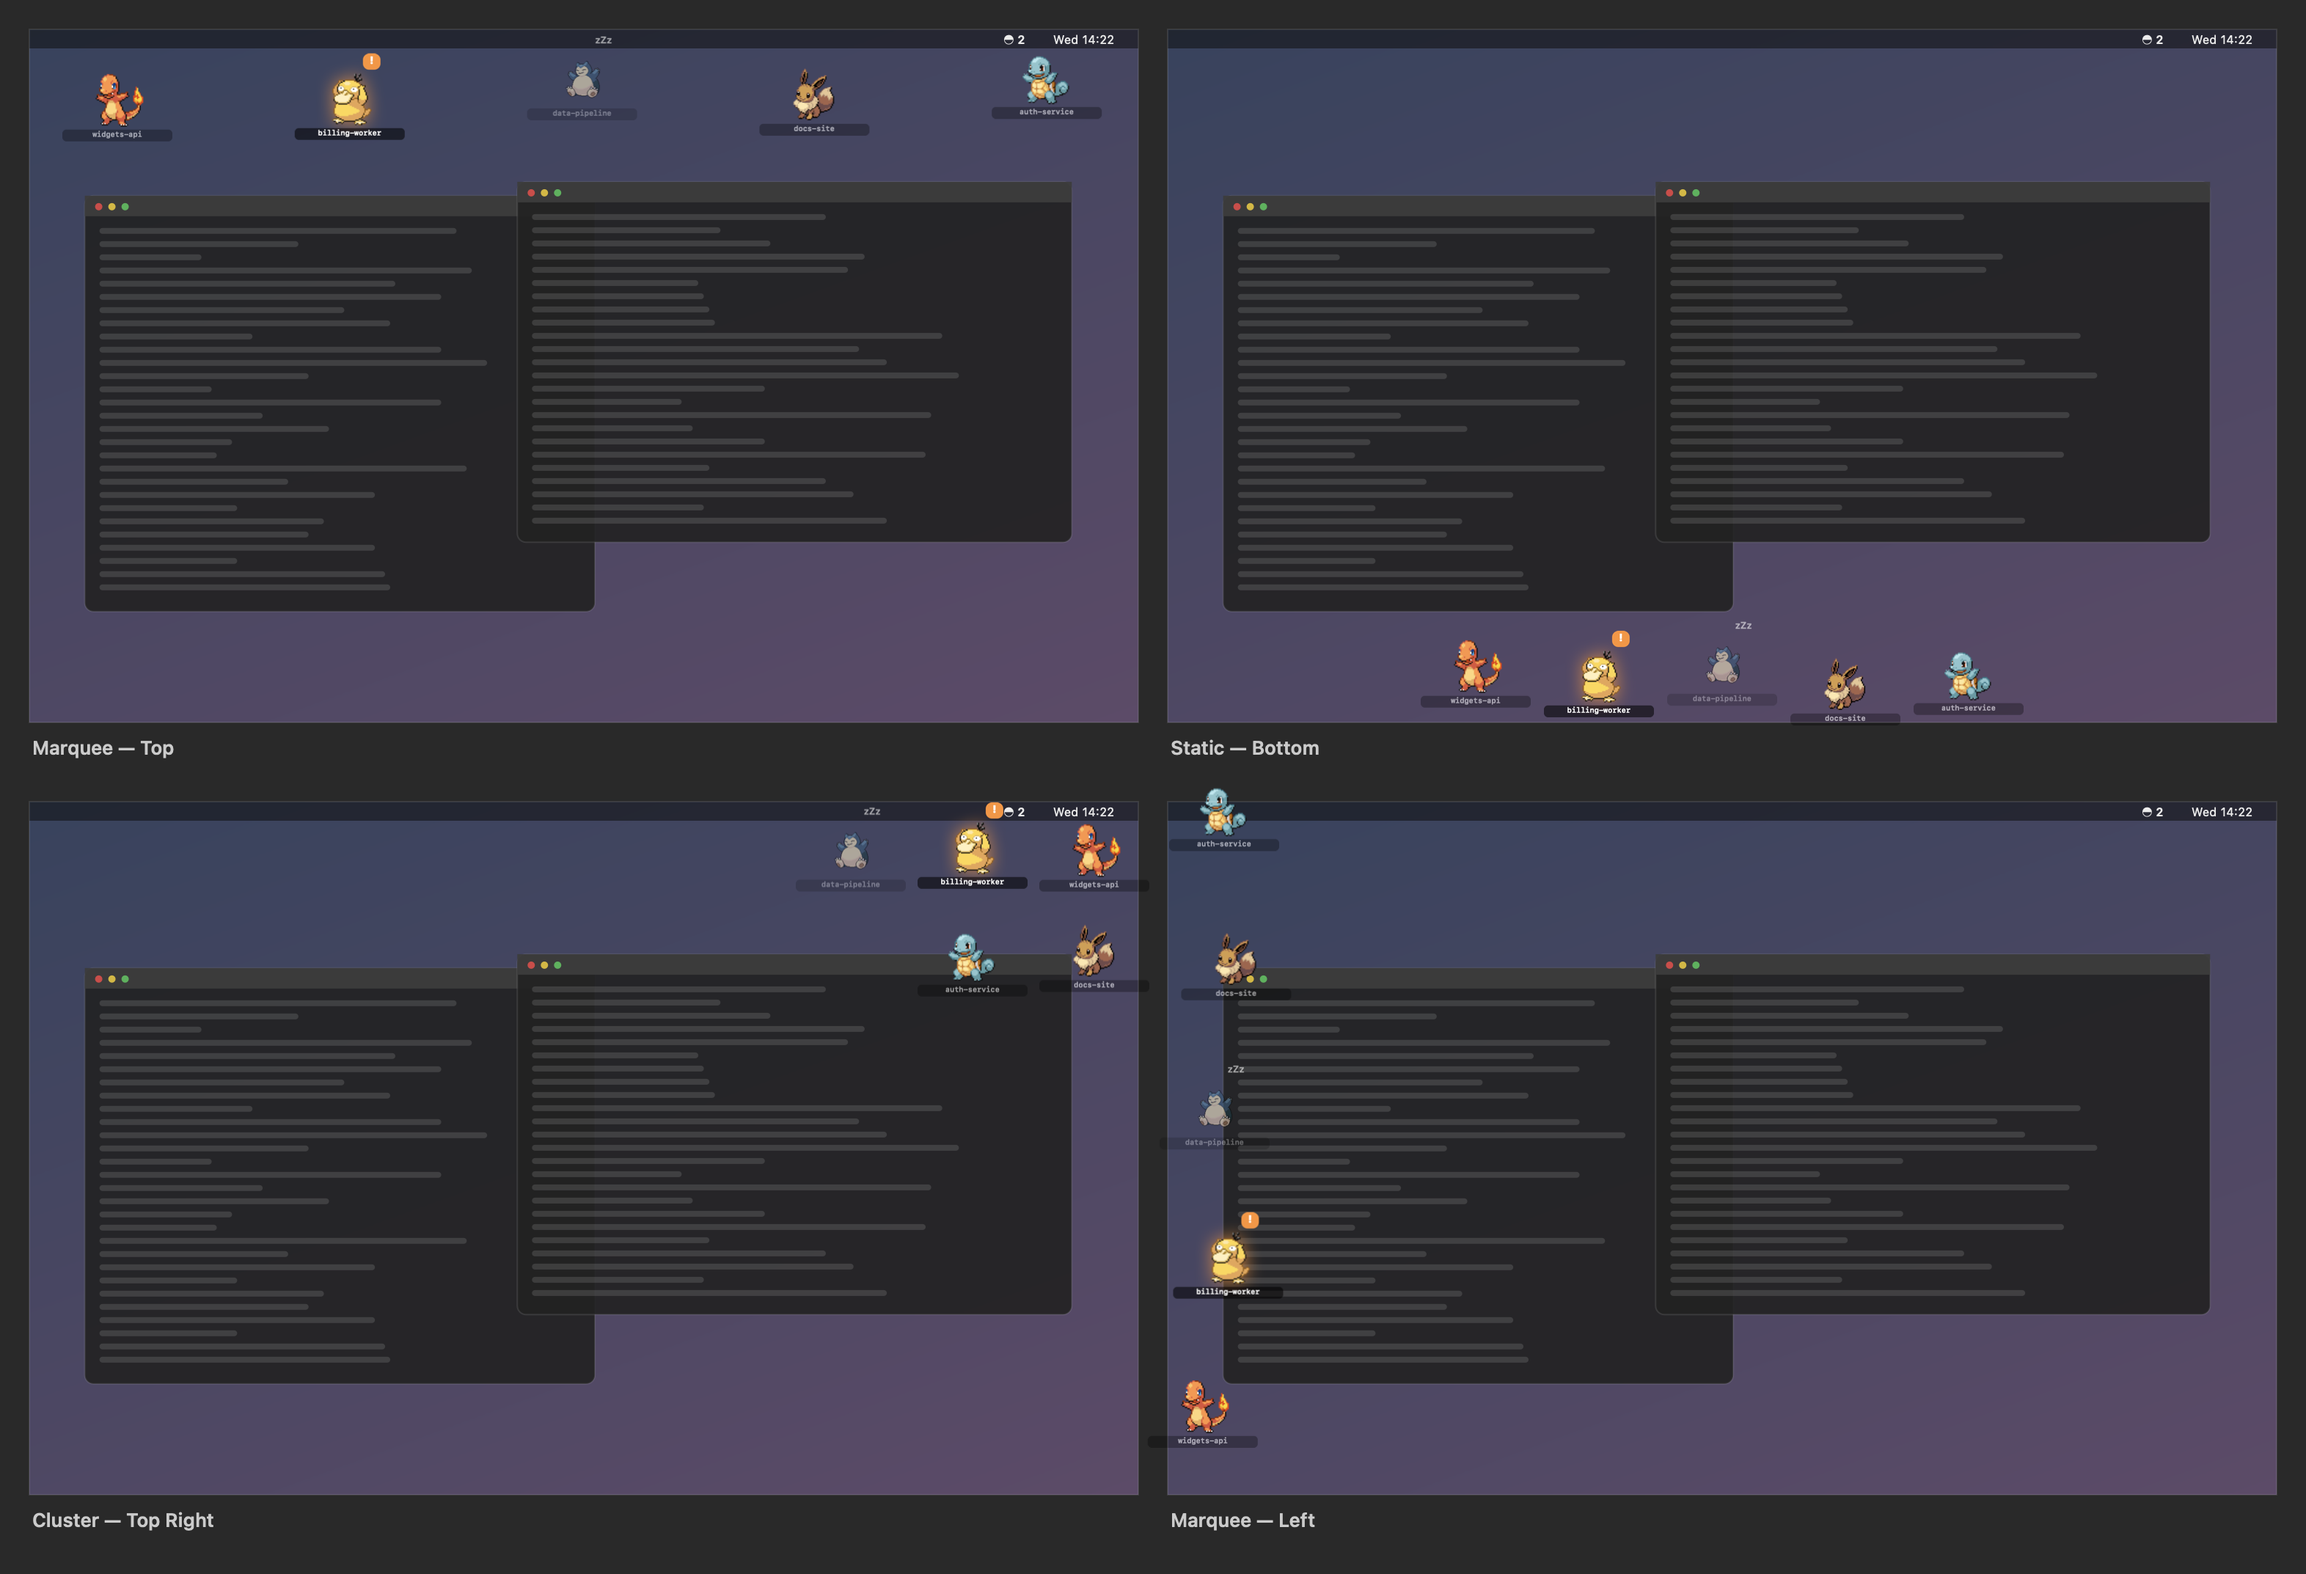
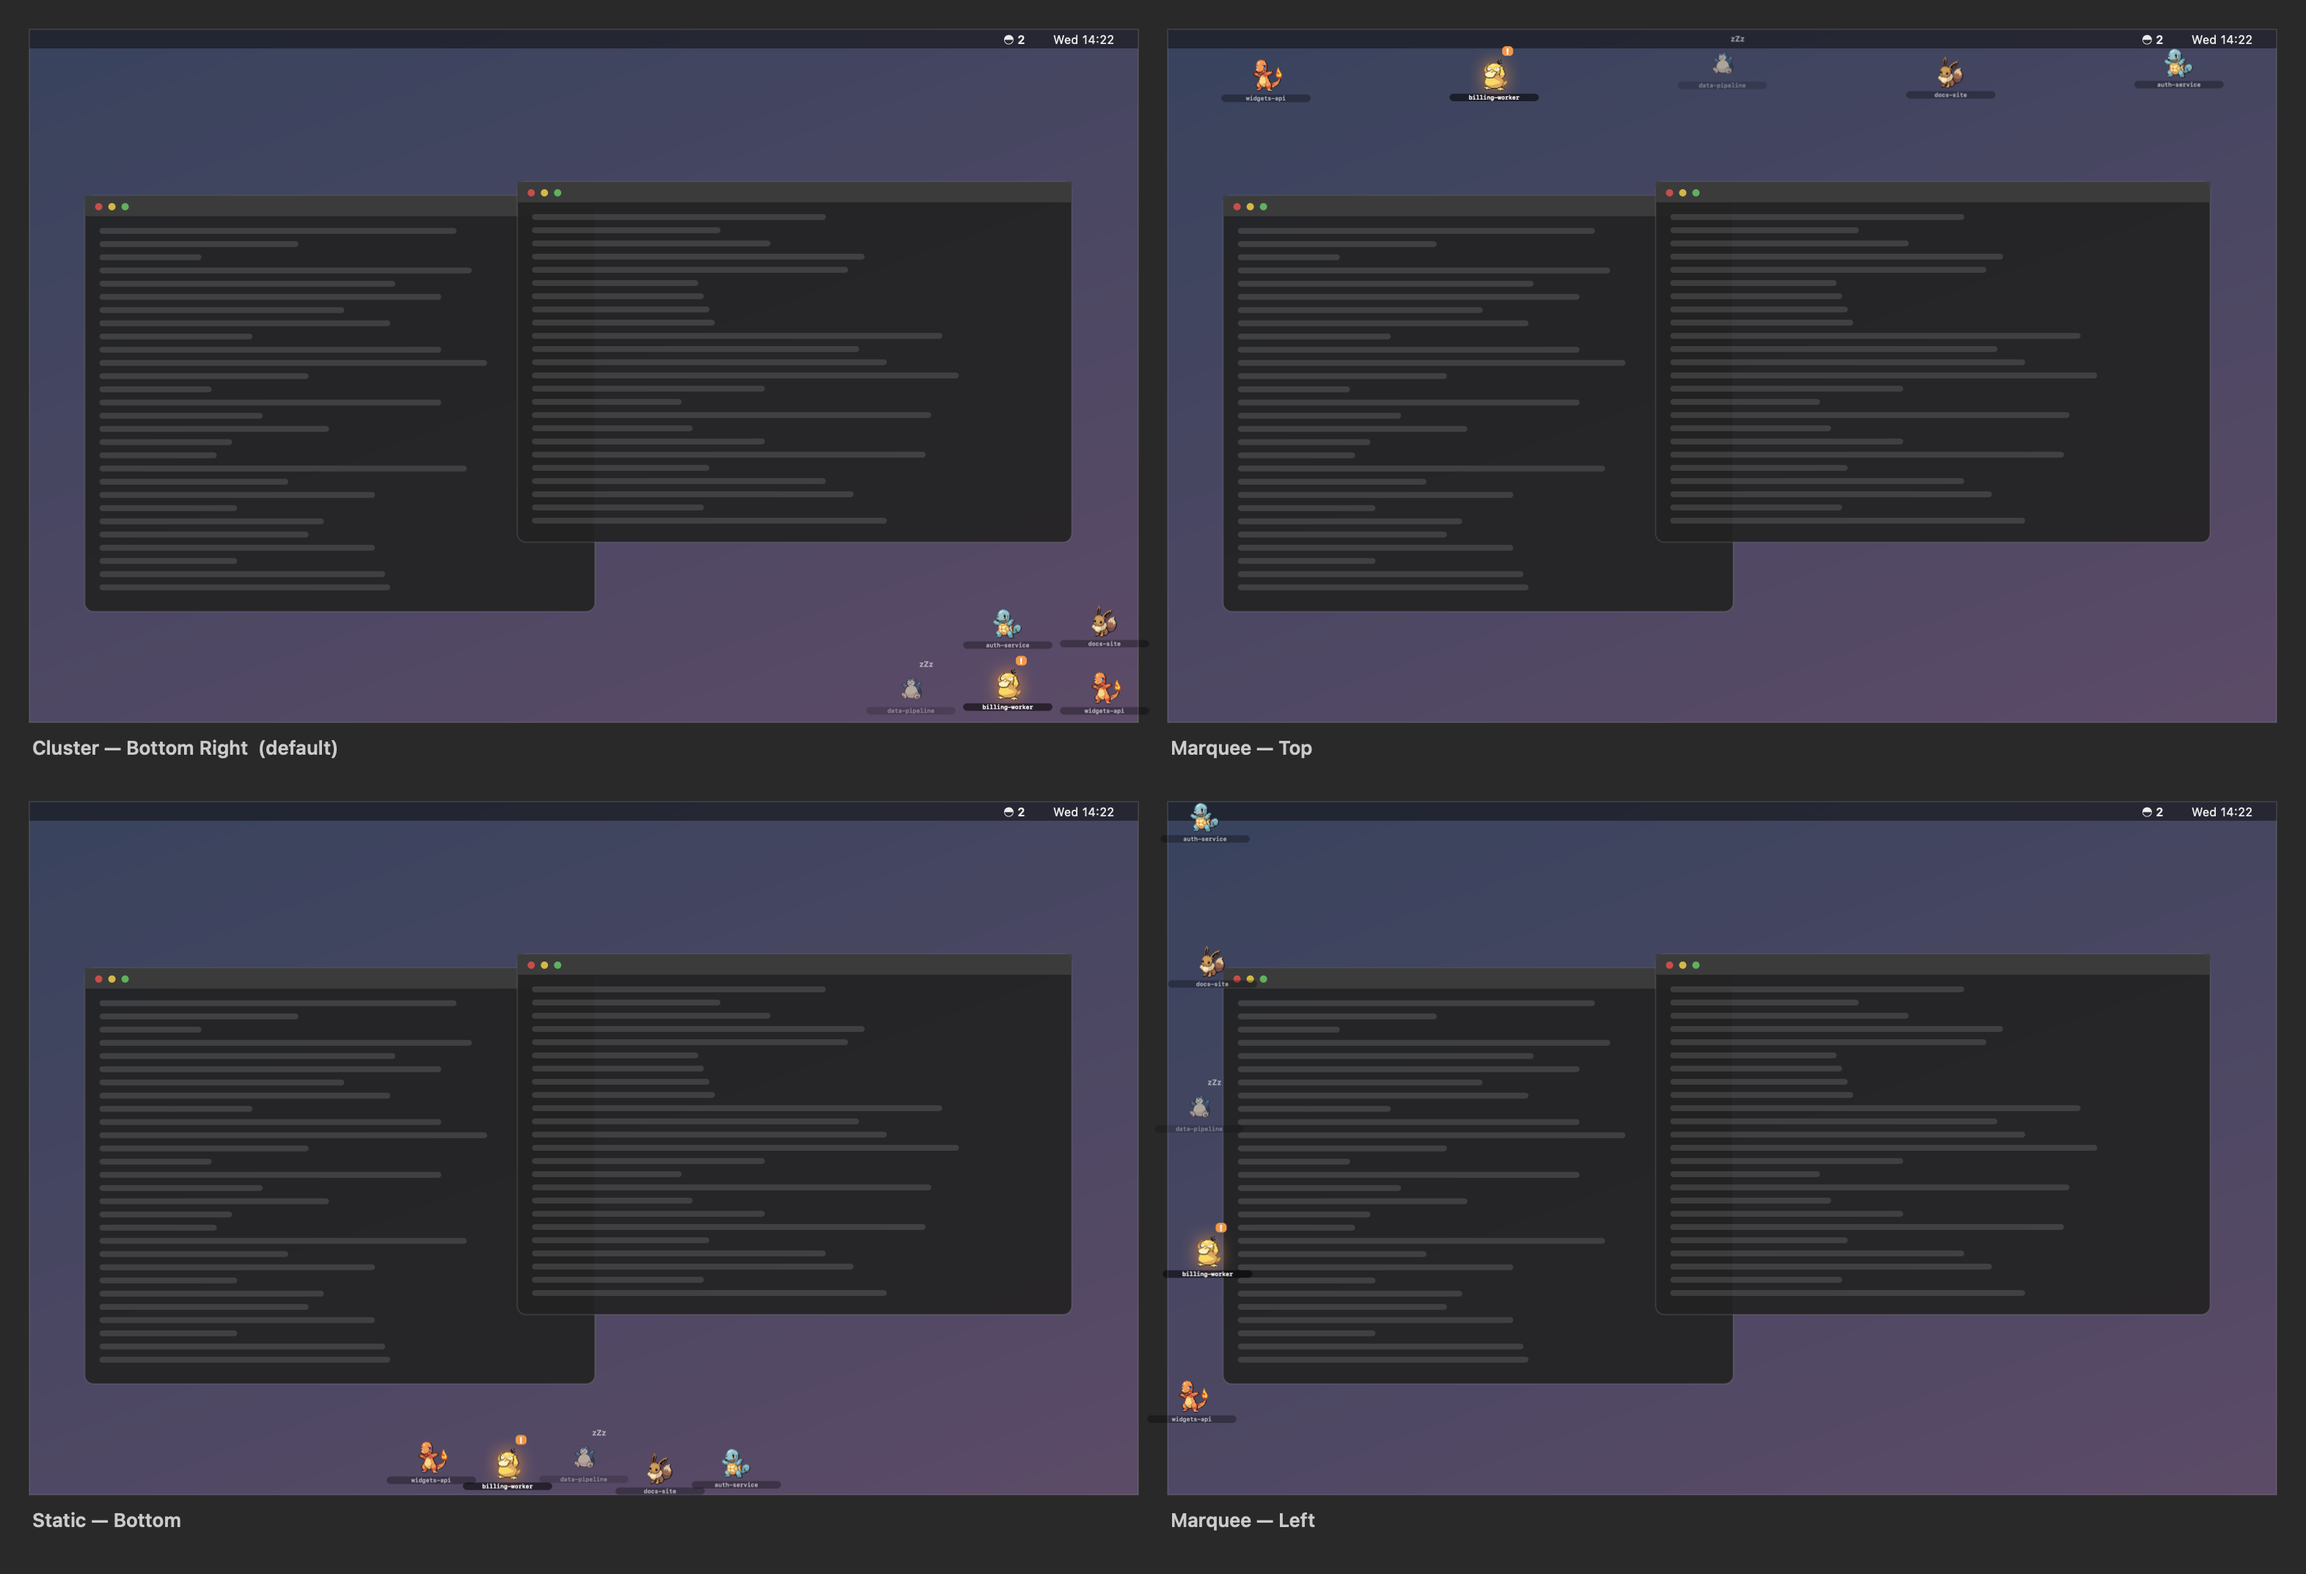
docs: regenerate the mock screenshots at the real defaults
They were drawn at the large sprite size and led with a marquee mode, both of
which stopped being the defaults. The mock now takes its size from
SpriteSize.default and puts Cluster — Bottom Right first, so the picture cannot
drift from a fresh install again.

diff --git a/overlay/Sources/PokeAgents/RenderMockDesktop.swift b/overlay/Sources/PokeAgents/RenderMockDesktop.swift
@@ -11,10 +11,11 @@ import PokeAgentsCore
 /// desktop. Sprite positions come from the real `Layout`, so the pictures stay
 /// honest about what each mode actually does.
 enum RenderMockDesktop {
+    // The default first, so the picture leads with what a new install looks like.
     private static let panels: [(DisplayMode, String)] = [
+        (.clusterBottomRight, "Cluster — Bottom Right  (default)"),
         (.marqueeTop, "Marquee — Top"),
         (.staticBottom, "Static — Bottom"),
-        (.clusterTopRight, "Cluster — Top Right"),
         (.marqueeLeft, "Marquee — Left"),
     ]
 
@@ -27,6 +28,9 @@ enum RenderMockDesktop {
         ("auth-service", .running),
     ]
 
+    /// Background agents are hidden by default, so none appear here — the
+    /// picture should match a fresh install, not every feature at once.
+
     private static let screen = NSSize(width: 1512, height: 945)
     private static let scale: CGFloat = 0.5
     private static let captionHeight: CGFloat = 34
@@ -34,7 +38,9 @@ enum RenderMockDesktop {
 
     static func run(to path: String) -> Never {
         let cache = SpriteCache(directory: Paths.home().appendingPathComponent("sprites"))
-        let metrics = SpriteMetrics(size: .large)
+        // Whatever the app actually defaults to, so the picture cannot drift
+        // from a fresh install.
+        let metrics = SpriteMetrics(size: .default)
 
         let panelSize = NSSize(width: screen.width * scale,
                                height: screen.height * scale + captionHeight)

diff --git a/README.md b/README.md
@@ -11,10 +11,15 @@ and [adding another harness](harnesses/README.md) is a small map of event names.
 
 ![Four display modes on a mocked desktop](docs/images/display-modes.png)
 
-![Three sprite states at three sizes](docs/images/states-and-sizes.png)
+*Four of the twelve arrangements, drawn at the defaults a fresh install uses:
+**Cluster — Bottom Right** at the **small** sprite size. They look modest against
+a full screen because that is the point — both are configurable from the menu
+bar.*
 
-*Sprite states, left to right: `running`, `attention`, `done`. Sizes, top to
-bottom: large, medium, small.*
+![Sprite states at three sizes](docs/images/states-and-sizes.png)
+
+*States, left to right: `running`, `attention`, `done`, and a background agent
+with no terminal to jump to. Sizes, top to bottom: large, medium, small.*
 
 > Both images are generated, not captured. The wallpaper and window shapes are
 > drawn by the app in an offscreen render, the session names are invented, and no
